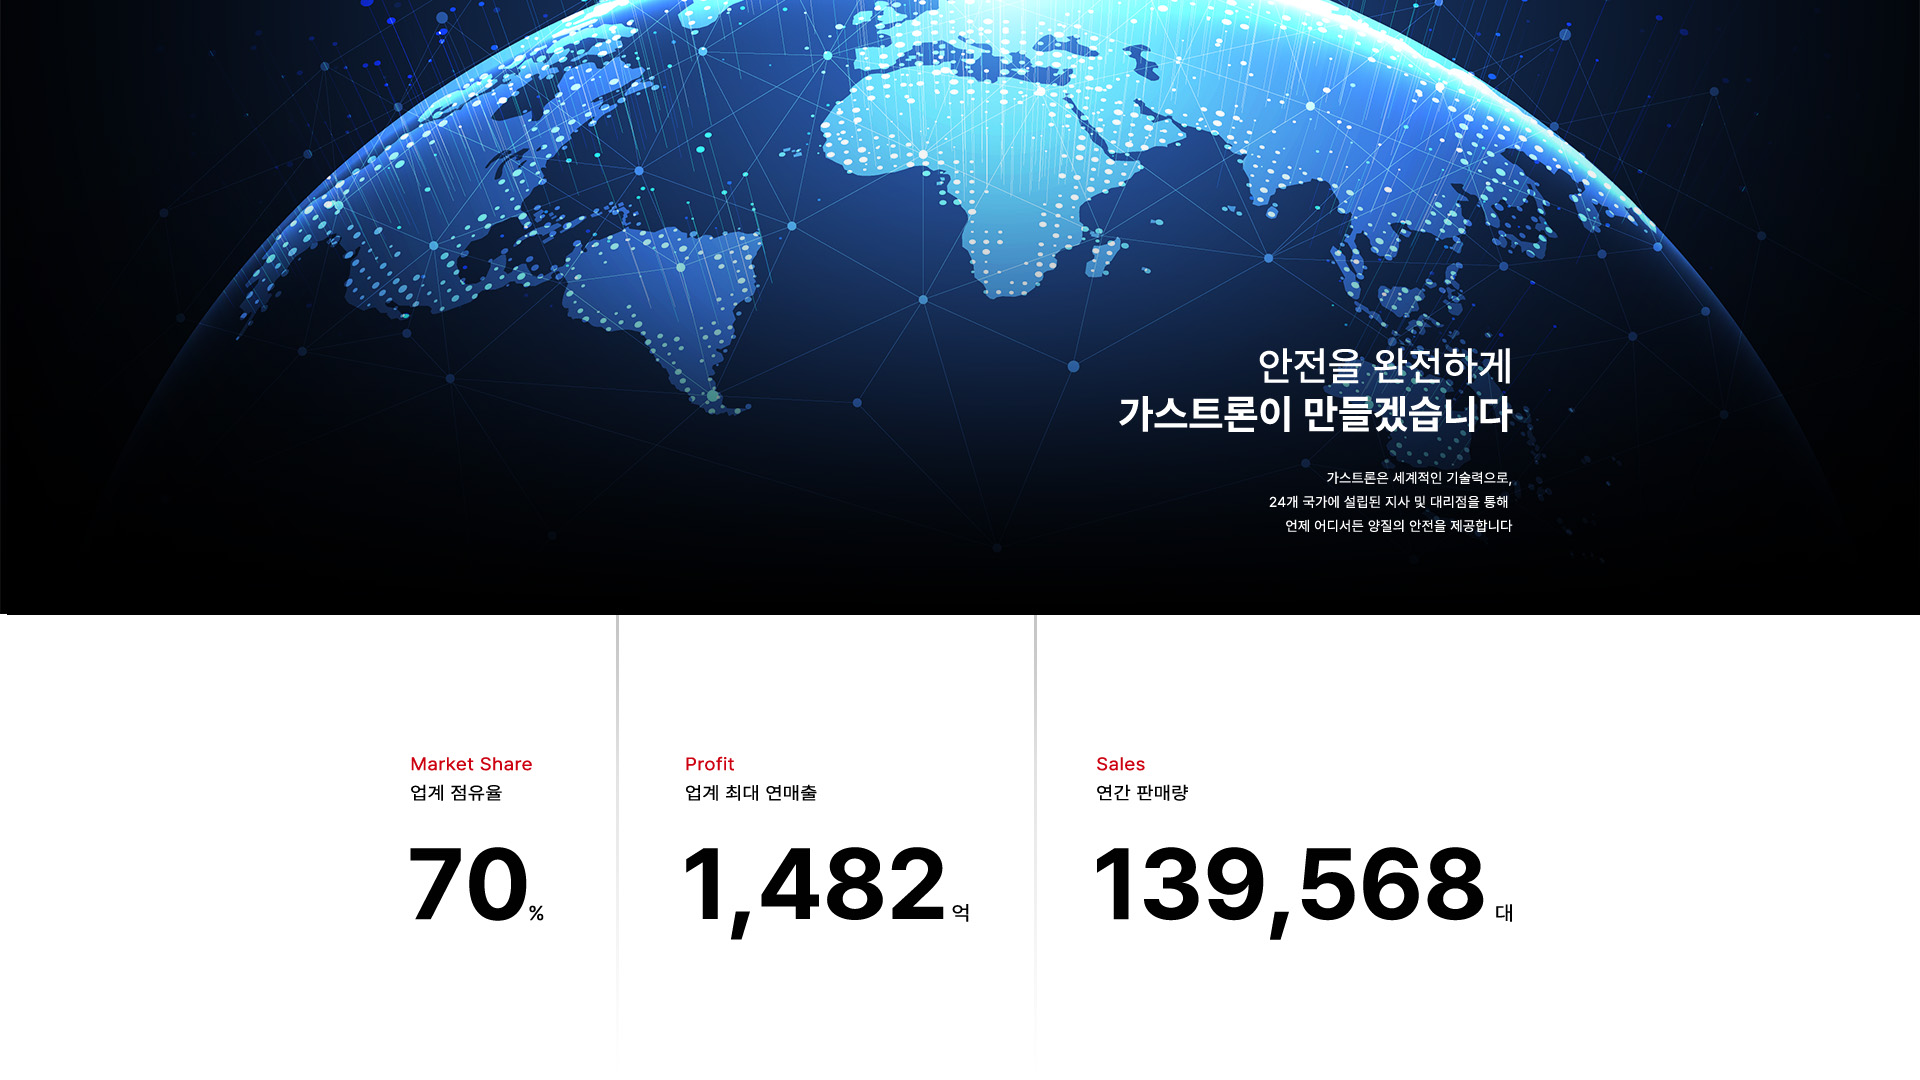
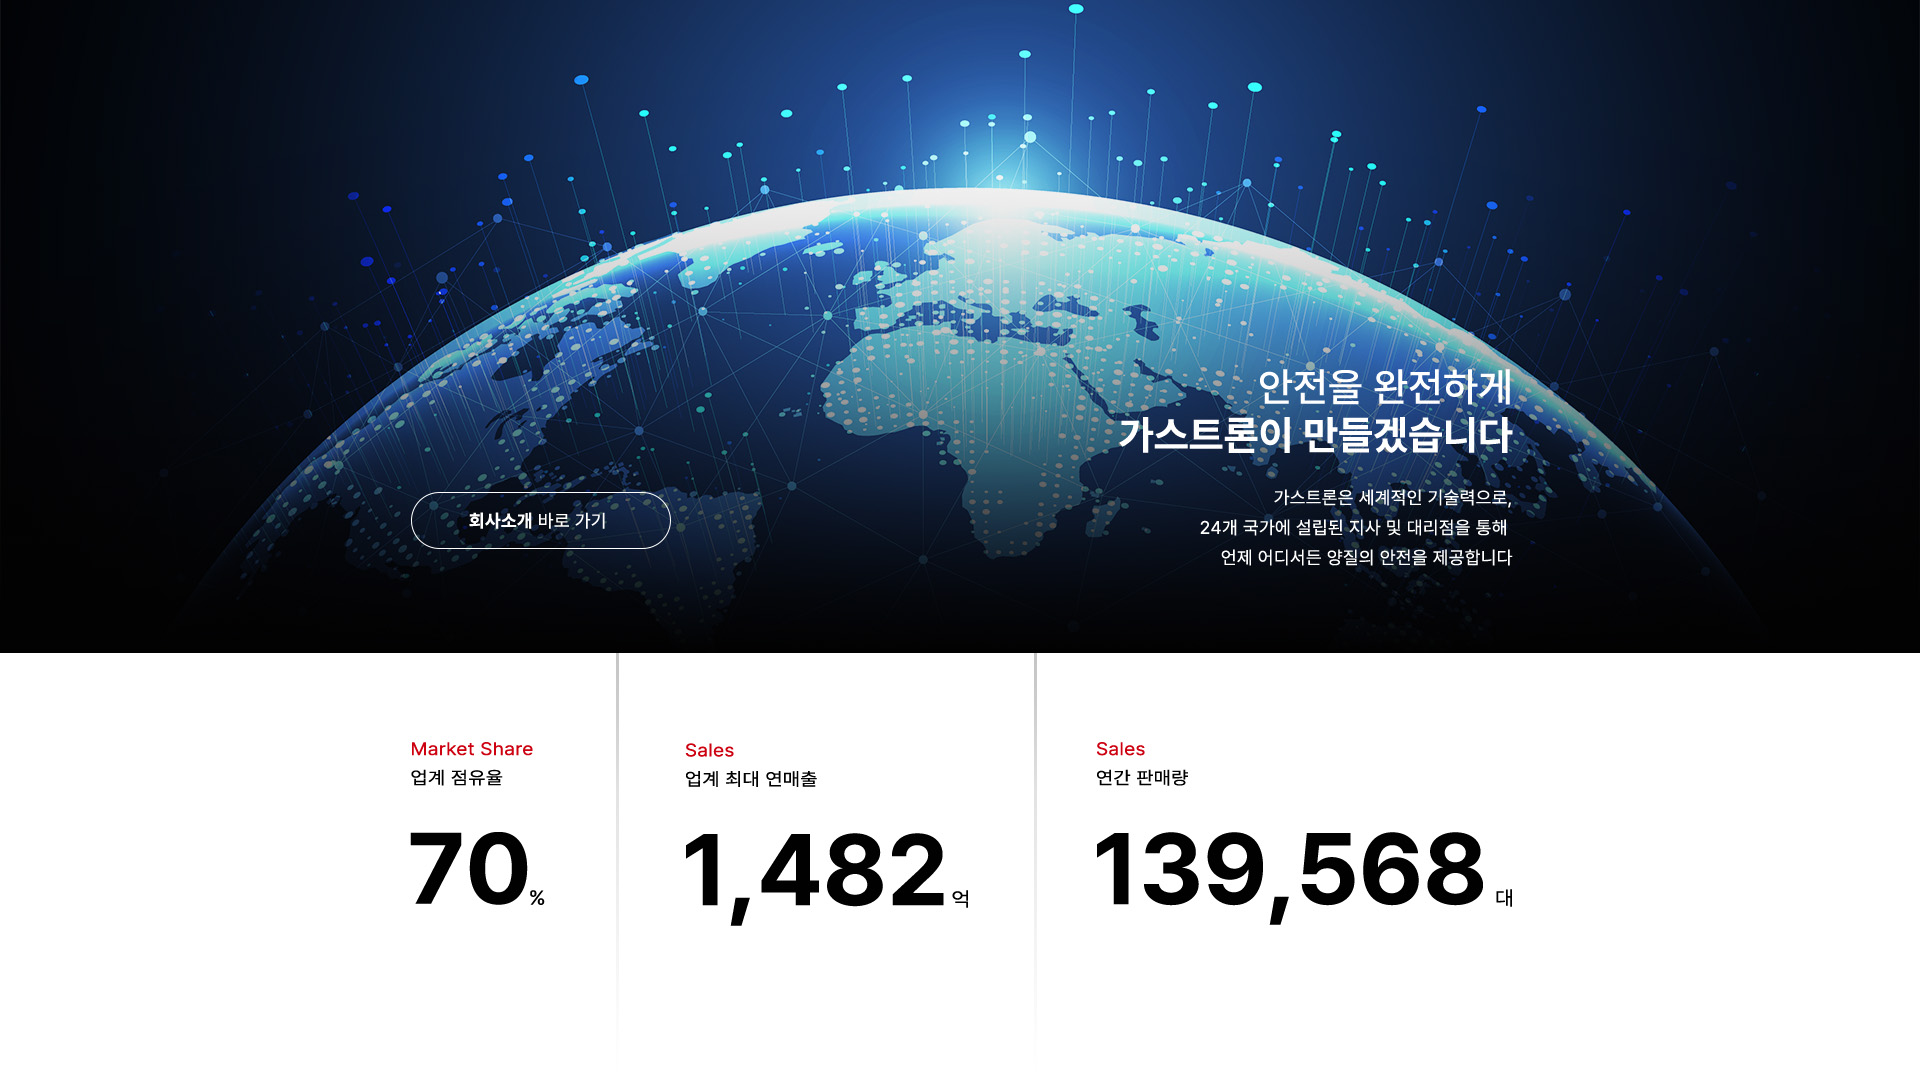
전체 이미지 수정

diff --git a/assets/css/common.css b/assets/css/common.css
@@ -144,10 +144,10 @@
     z-index: 99;
 }
 #section02 .section_inner img {
-    object-position: bottom;
+    /* object-position: bottom; */
 }
 #section03 .section_inner img {
-    object-position: top;
+    /* object-position: top; */
 }
 #section06 .section_inner img {
     height:auto;
